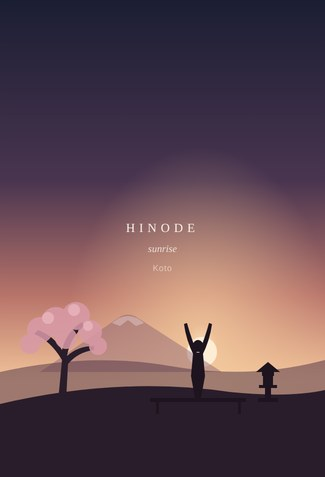
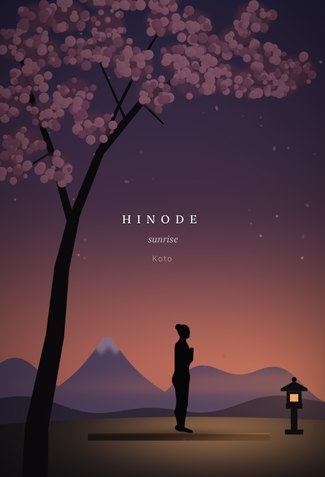
Use the real Hinode screenshot on its mood card
Claude-Session: https://claude.ai/code/session_011Crc5regMvN9T21voaHFLZ

diff --git a/index.html b/index.html
@@ -107,7 +107,7 @@
             <span class="face back"><span class="k" lang="ja">伸</span><span class="n">Nobi</span><span class="m">stretch</span><span class="d">A man sits in a sunlit dojo, to a handpan in the Akebono scale. Hogushi gives a calm rhythm of 30-second holds for your own stretches.</span><span class="tag">Plus</span></span>
           </button>
           <button class="flip" type="button" aria-pressed="false">
-            <span class="face front"><img src="images/mood-hinode.jpg" alt="Hinode mood: sunrise over a hillside with a cherry tree and Mount Fuji" loading="lazy" width="325" height="477"></span>
+            <span class="face front"><img src="images/mood-hinode.jpg?v=2" alt="Hinode mood: a figure at dawn under a cherry tree, with Mount Fuji and a stone lantern" loading="lazy" width="325" height="477"></span>
             <span class="face back"><span class="k" lang="ja">日の出</span><span class="n">Hinode</span><span class="m">sunrise</span><span class="d">Dawn on a hillside with a cherry tree, Fuji and a stone lantern, to koto, the shō and birdsong. Himukae is a sun salutation in twelve kata.</span><span class="tag">Plus</span></span>
           </button>
         </div>
